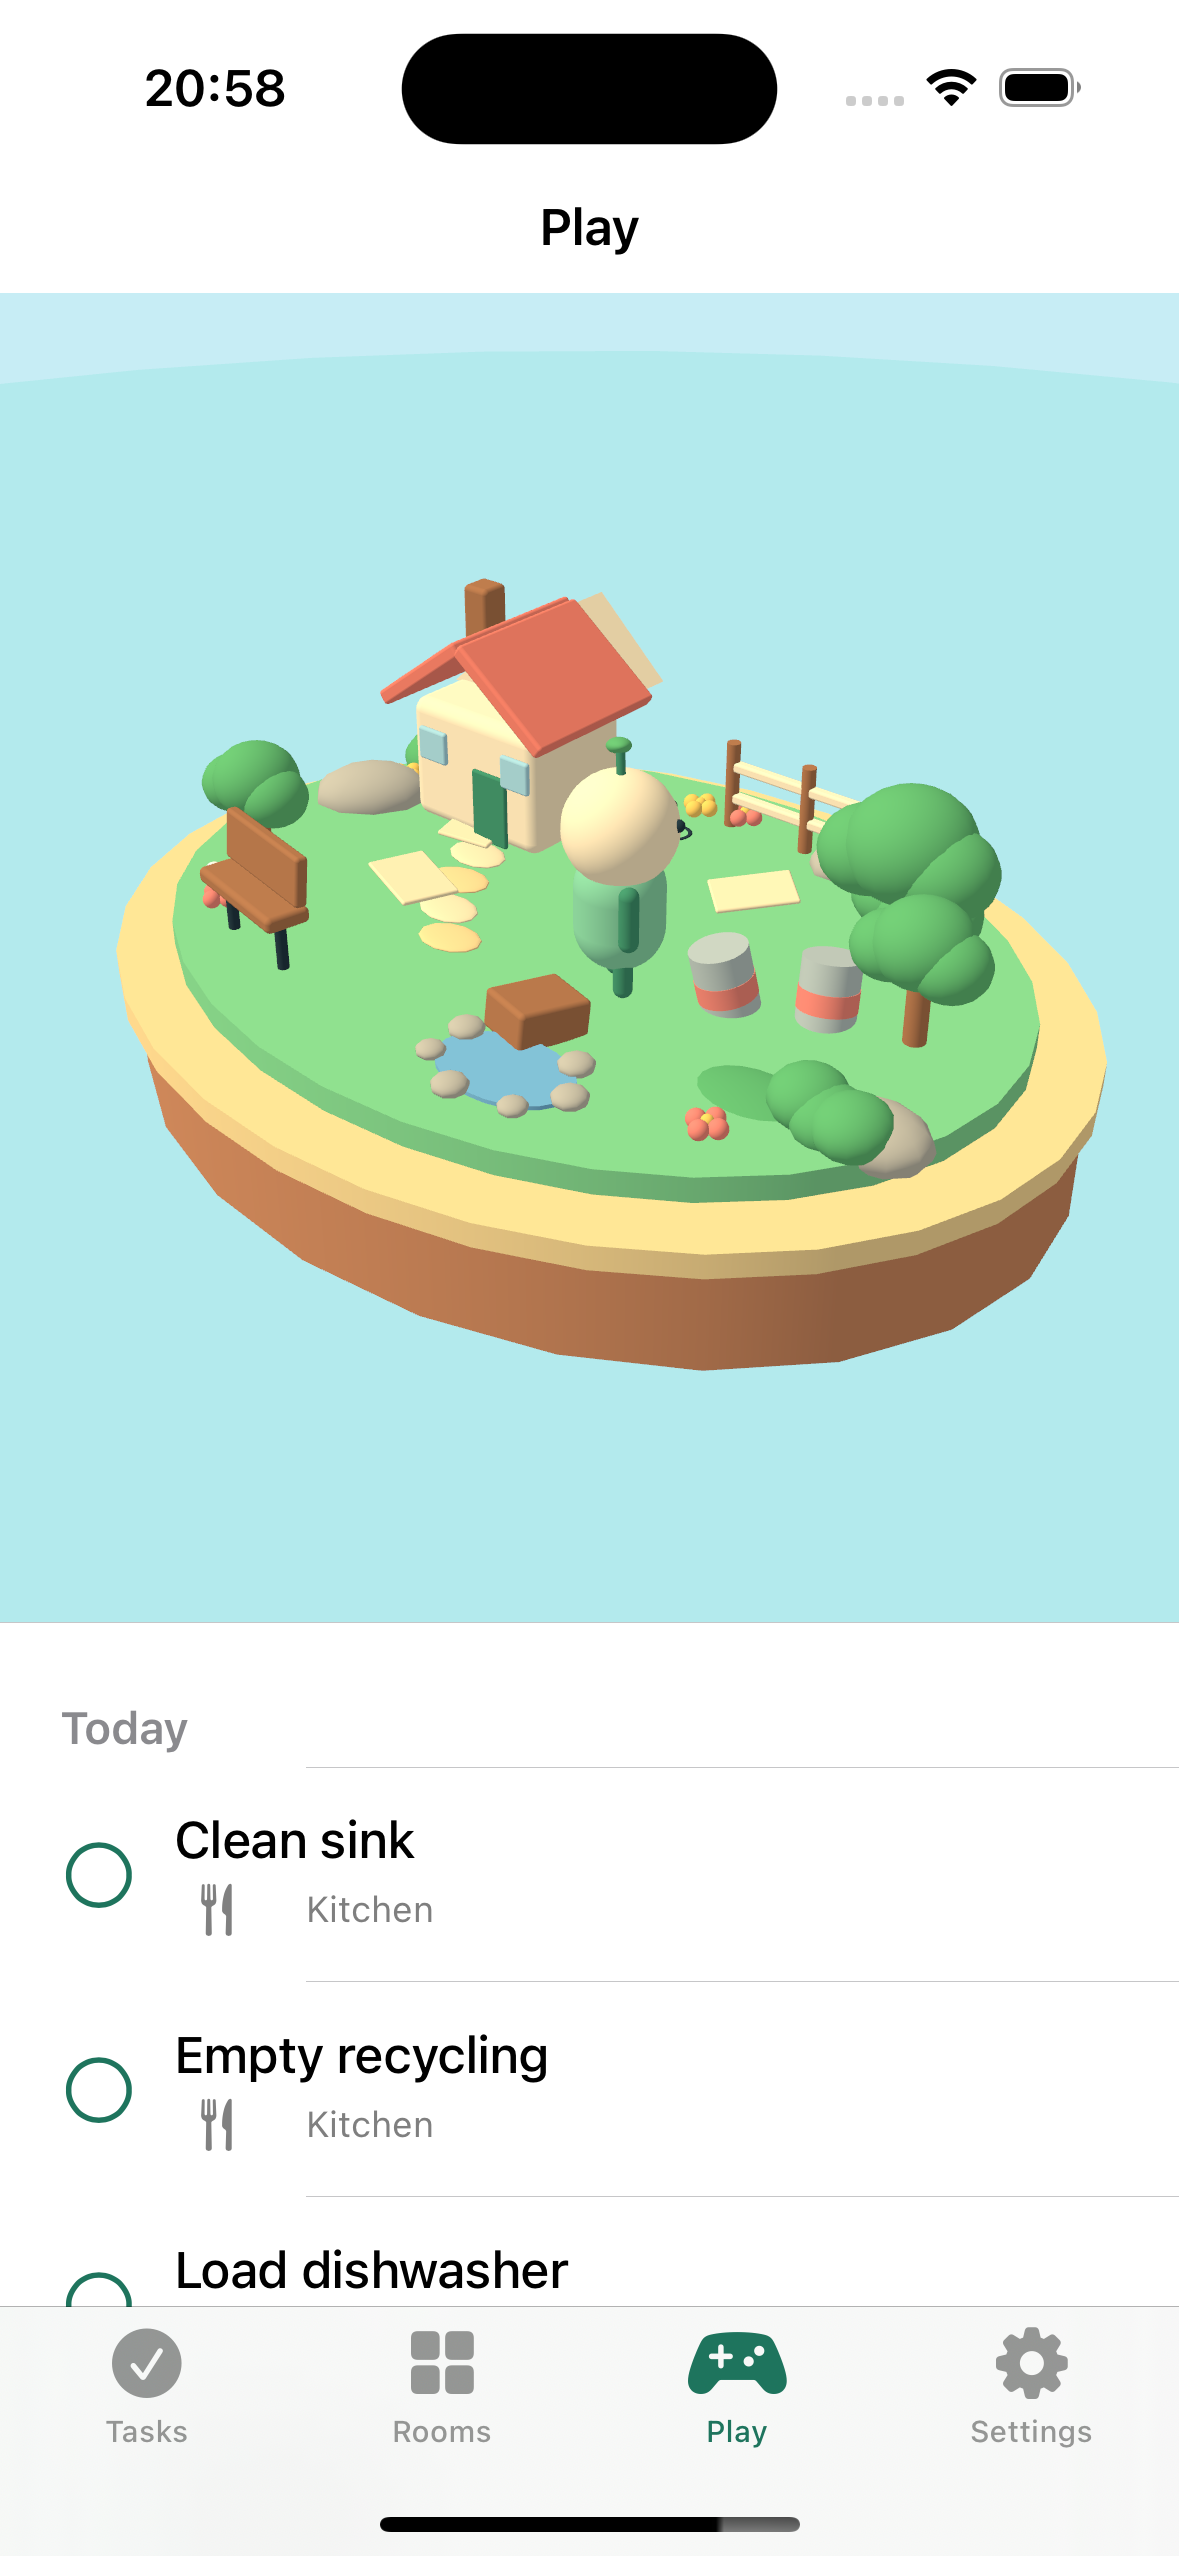
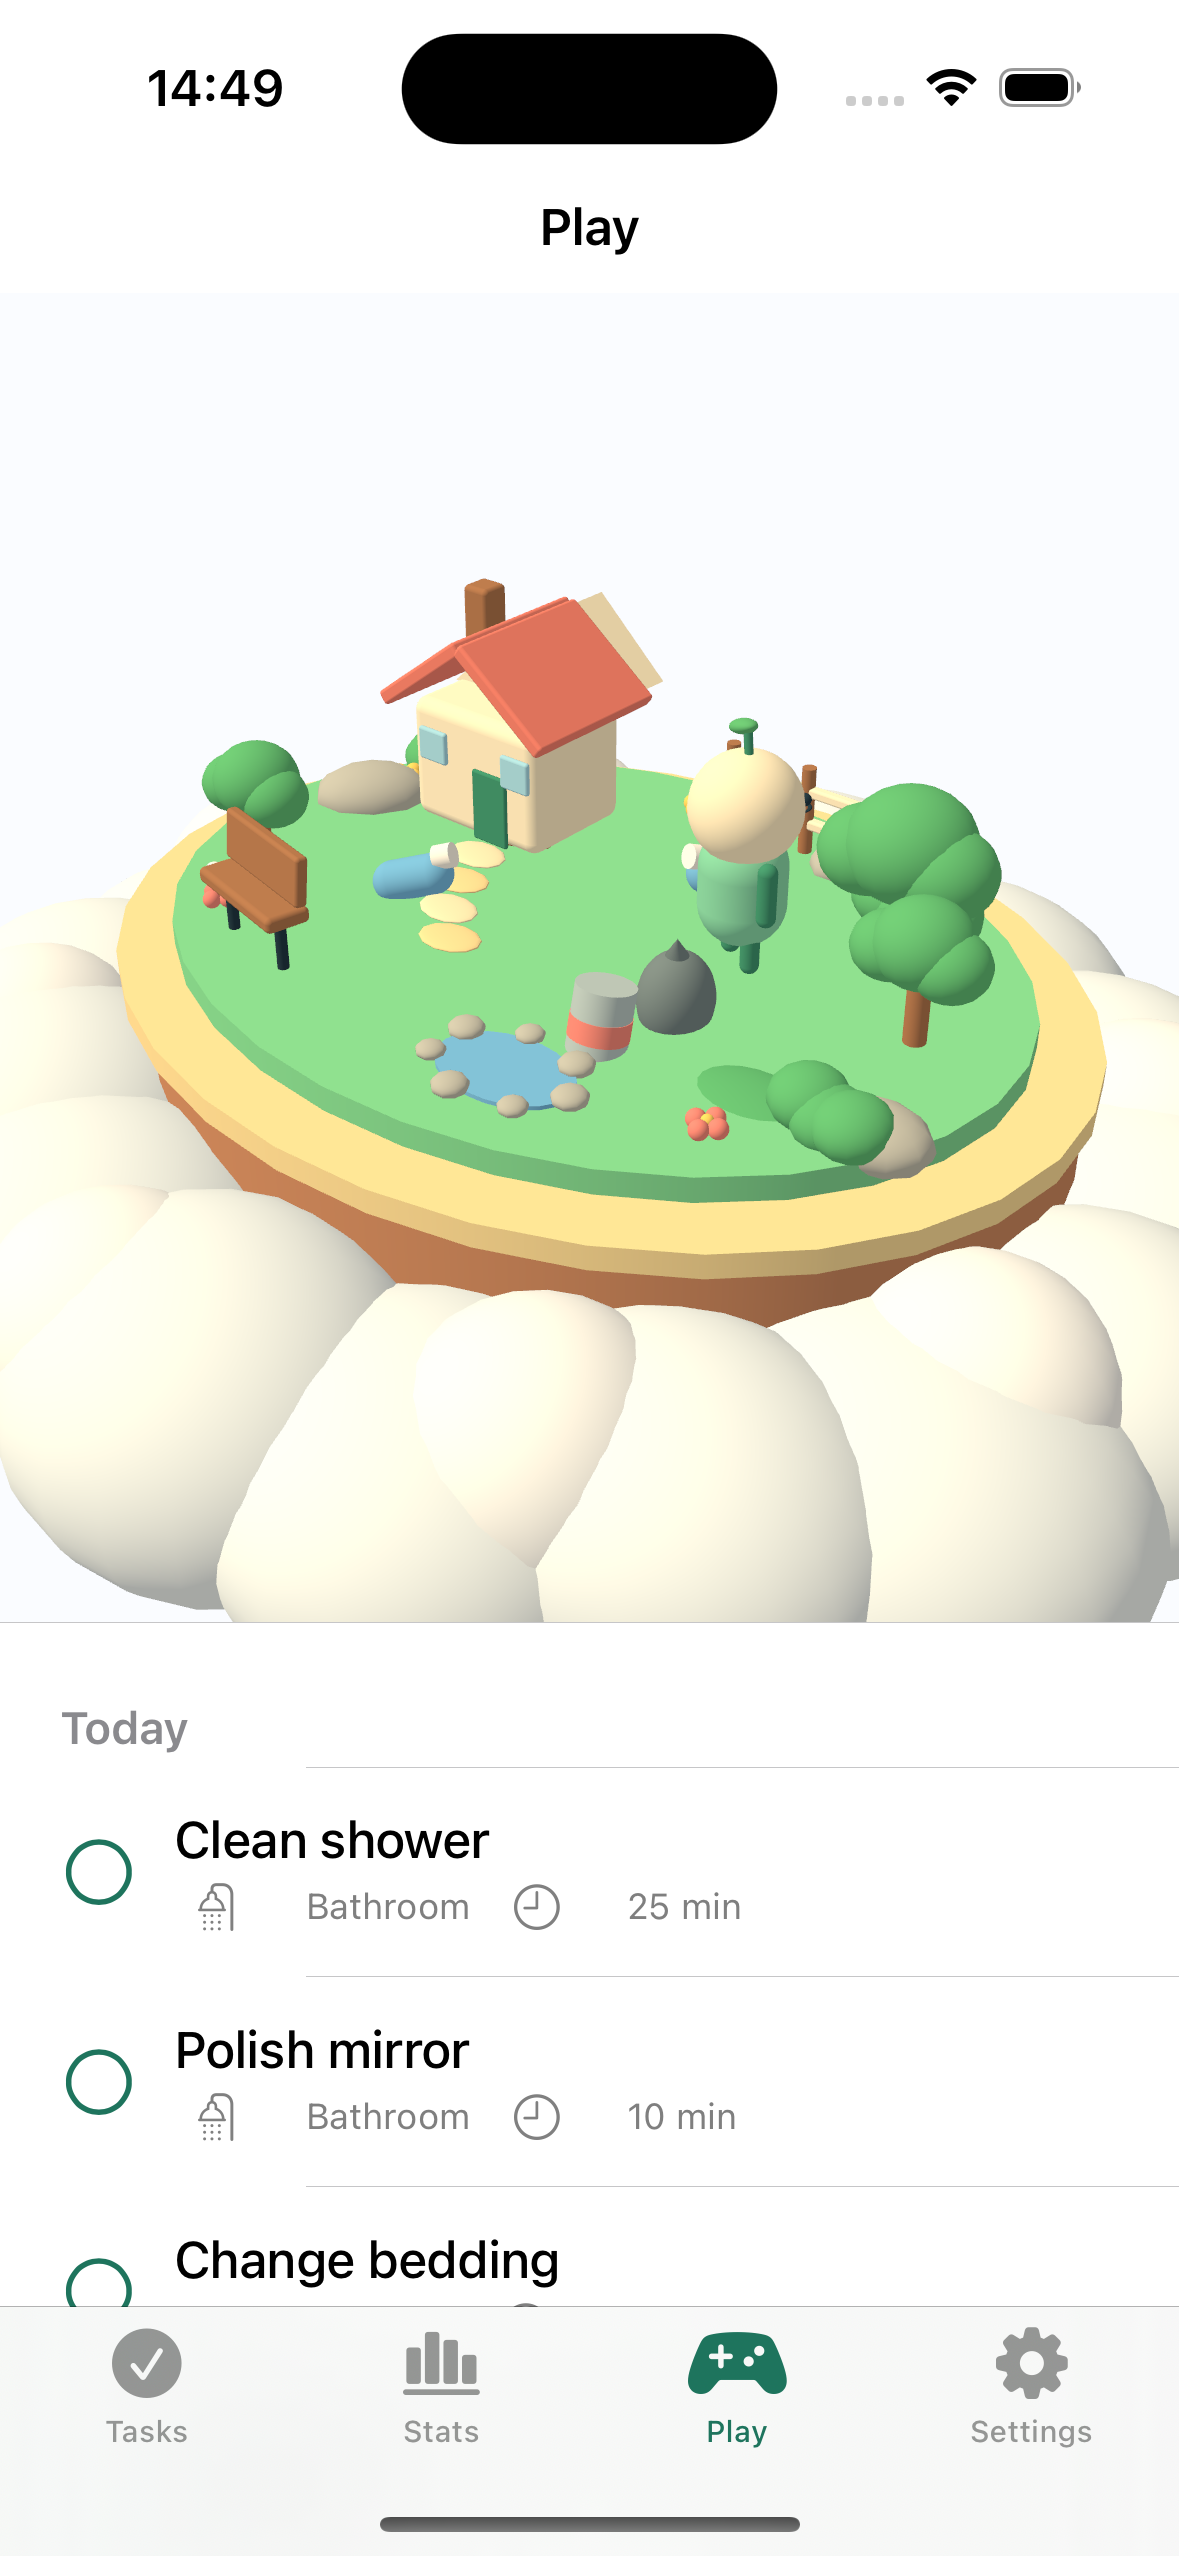
Refresh README screenshots

diff --git a/README.md b/README.md
@@ -1,12 +1,16 @@
 # nesti.
 
-`nesti.` is an offline-first iPhone, iPad, and Mac cleaning routine app built with SwiftUI and SwiftData. It organizes recurring cleaning tasks by room, highlights what is due, sends local reminders, and treats import/export as a first-class workflow.
+`nesti.` is an offline-first iPhone, iPad, and Mac cleaning routine app built with SwiftUI and SwiftData. It organizes recurring cleaning tasks by room, highlights what is due, turns daily chores into a small cleanup game, and reveals patterns in when and how you clean. Import and export remain first-class workflows.
 
 ## Screenshots
 
-| Play | Tasks | Rooms |
+| Tasks | Stats | Play |
 | --- | --- | --- |
-| <img src="docs/images/nesti-play.png" alt="The nesti. Play screen showing a 3D island and today's cleaning tasks" width="260"> | <img src="docs/images/nesti-tasks.png" alt="The nesti. task dashboard showing cleaning tasks due today" width="260"> | <img src="docs/images/nesti-rooms.png" alt="The nesti. Rooms screen showing a Kitchen with six tasks" width="260"> |
+| <img src="docs/images/nesti-tasks.png" alt="The nesti. task dashboard showing today's cleaning tasks grouped by room" width="260"> | <img src="docs/images/nesti-stats.png" alt="The nesti. Stats screen showing cleaning patterns, estimated effort, missed due dates, and streaks" width="260"> | <img src="docs/images/nesti-play.png" alt="The nesti. Play screen showing a 3D island and today's cleaning tasks" width="260"> |
+
+## Cleaning insights
+
+Stats turns local completion history into useful patterns without analytics or an account. Compare the last 30 days, 90 days, or all time to see completed and missed tasks, estimated effort, cleaning streaks, room and task rankings, daily momentum, preferred weekdays and times of day, and whether you tend to clean in one burst or spread tasks across the day.
 
 > **Tip:** Walk through your home while dictating rooms, cleaning tasks, and preferred timing to an AI assistant of your choice. Ask it to generate a `.nesti` JSON file using the template below, then import that file into nesti. to set up your complete routine at once.
 
